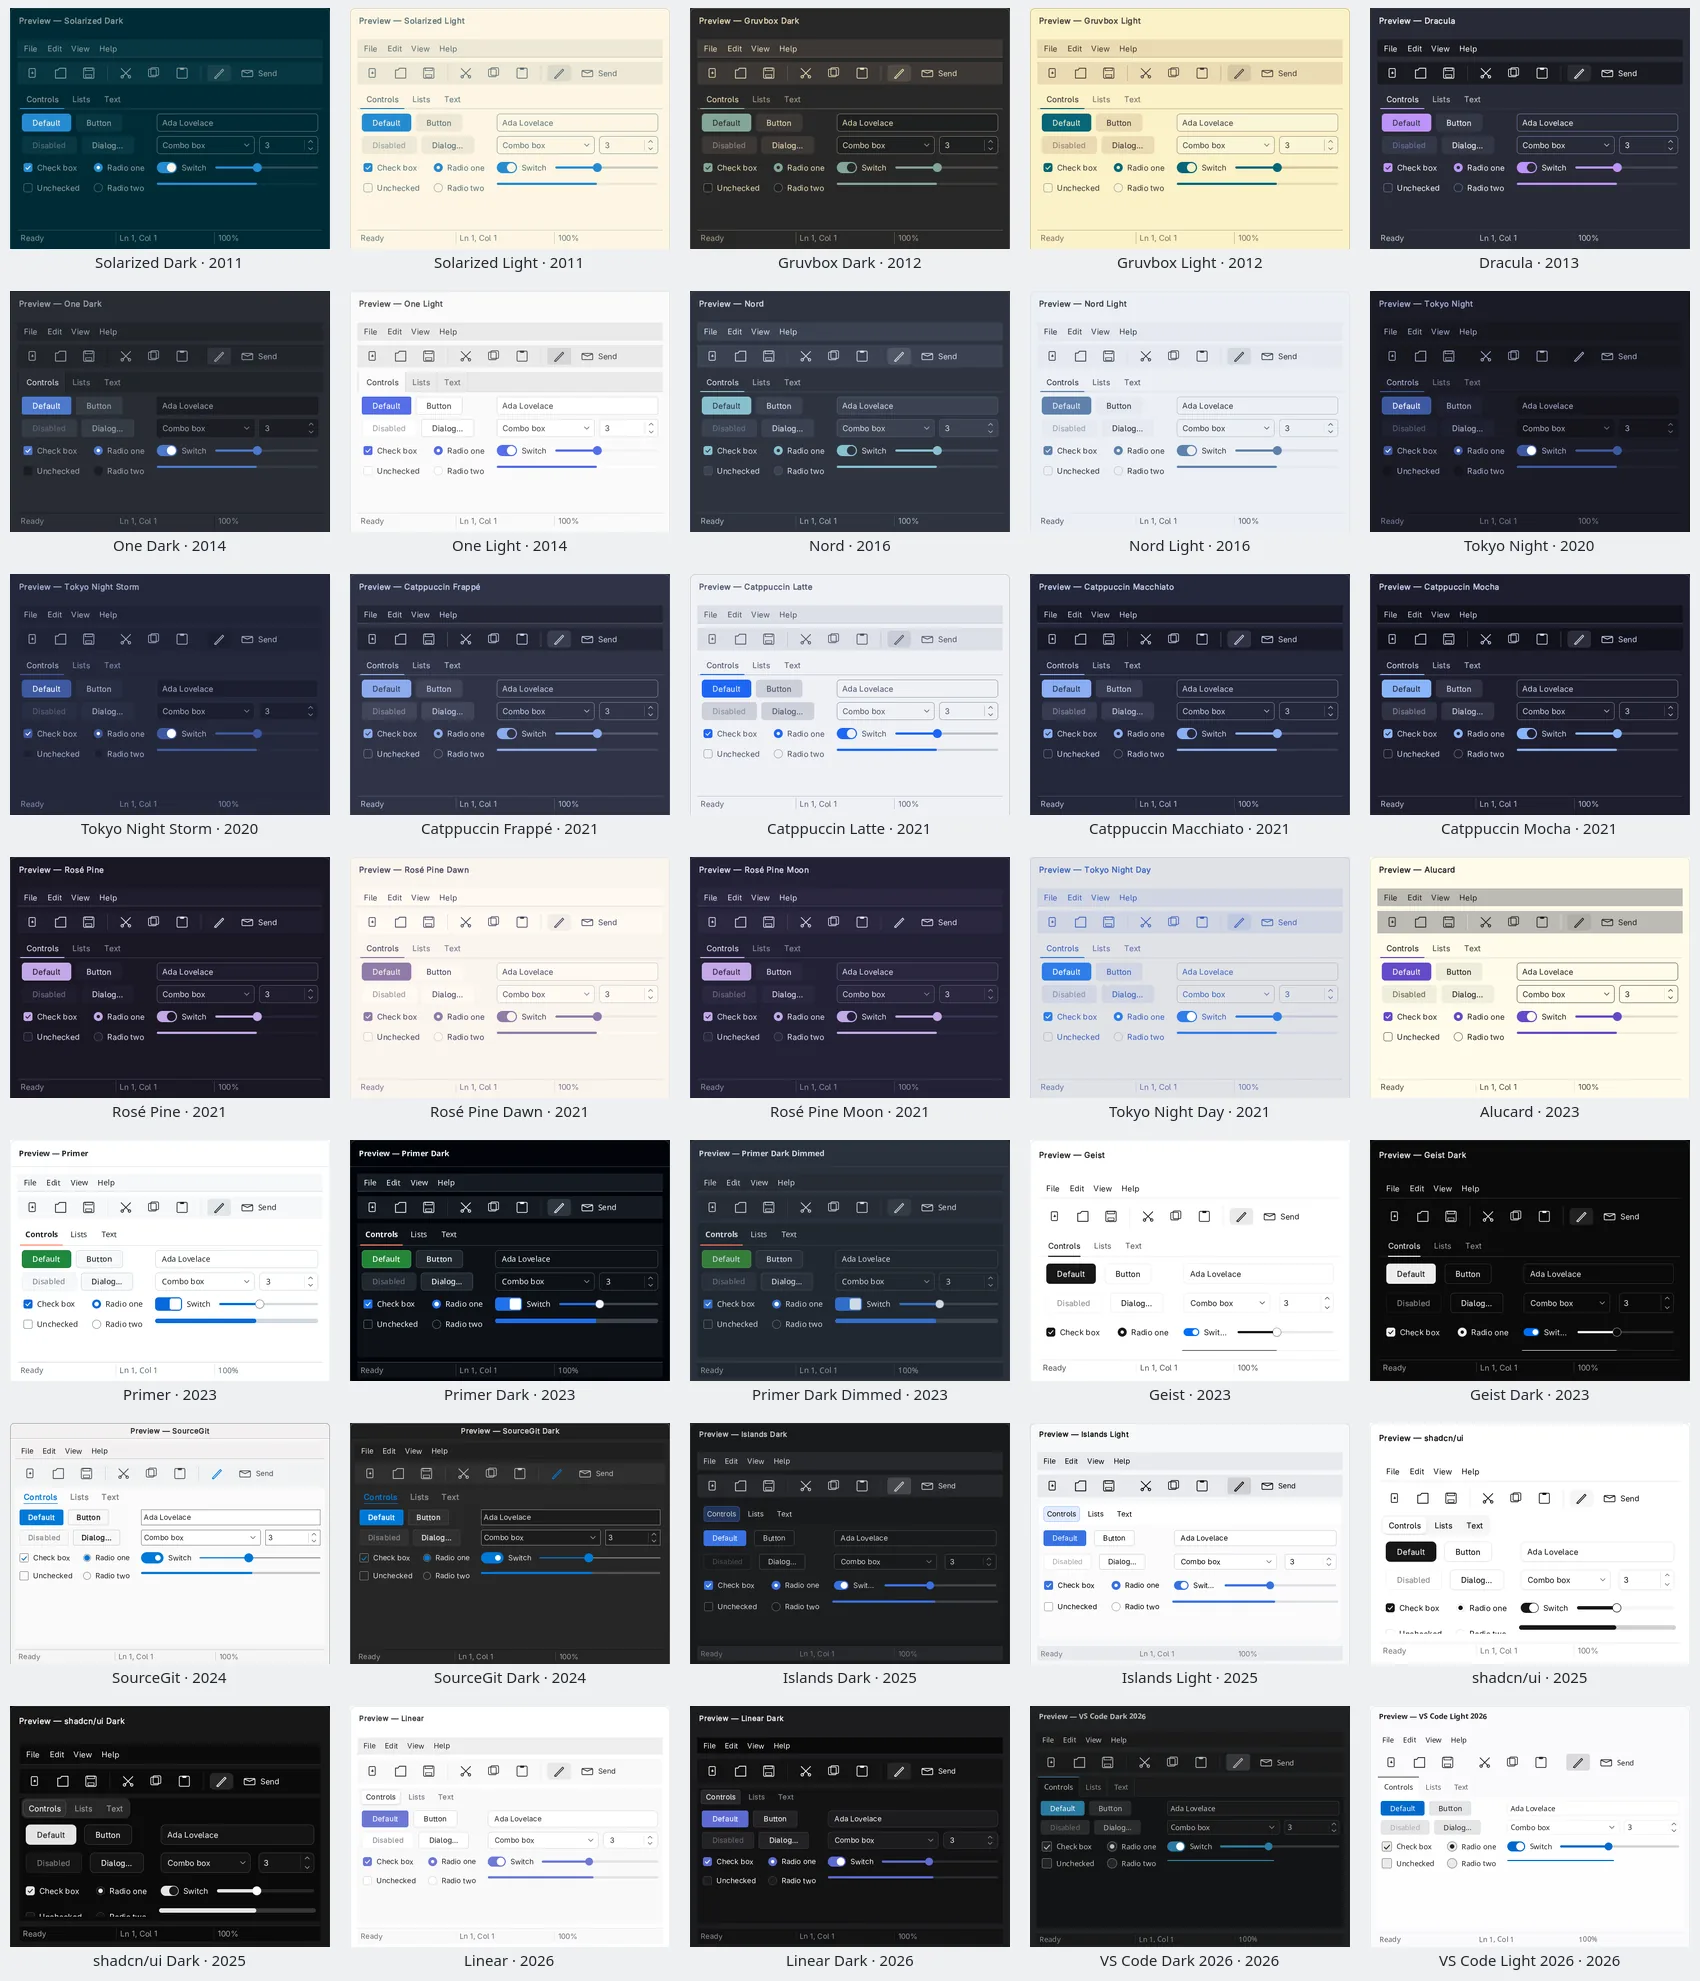
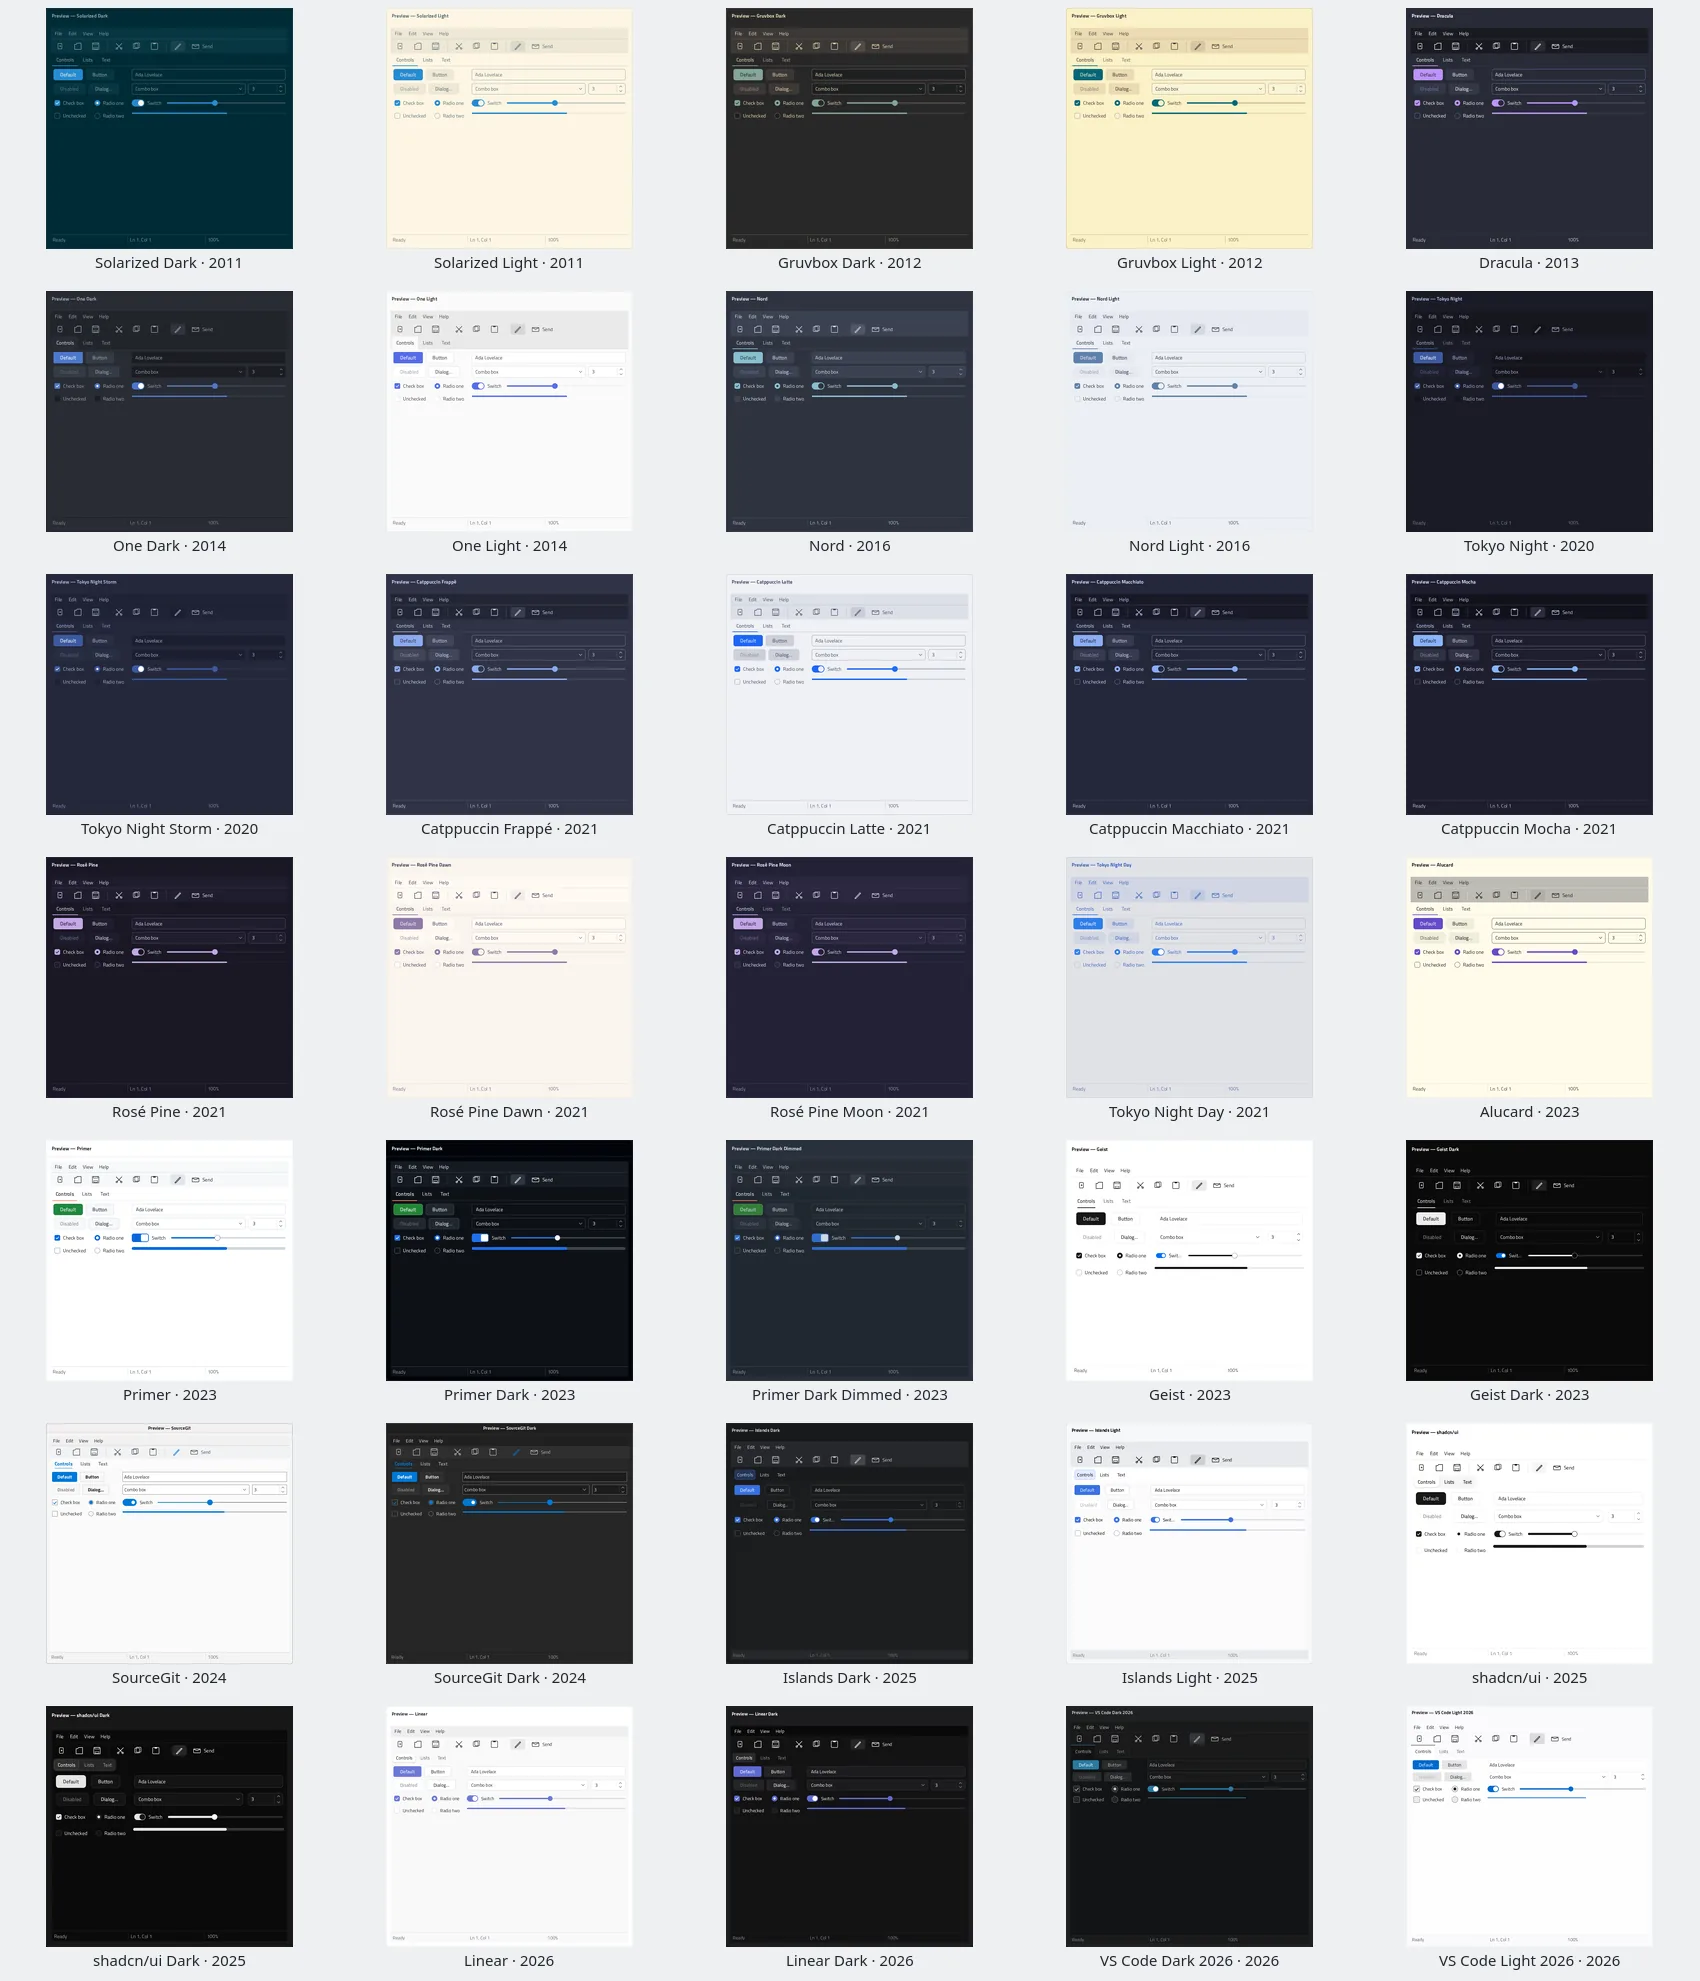
docs: regenerate every screenshot, and make the last hand-made one reproducible
The theme sheets and the window-frame sheet were rendered before the
suite pinned the bundled faces and before the Settings crop moved, so
they were a picture of one machine's installed fonts and 35 px short.
All of them are rebuilt: the seven decade and family sheets through
tools/atlas/render.sh and sheets.sh, and the frame sheet through a
script that did not exist until now.

That last one is the point. frames.webp was made by hand once. When
frame drawing changed, rebuilding it meant reading the twenty-eight
packs back out of the picture one label at a time, because nothing
recorded which they were or in what order. tools/atlas/frames.sh does
it now — it renders each pack's frame sheet, crops the active tile from
a position checked against Aqua's pinstripes, System 1's 1-bit frame
and Tahoe's rounded one, and montages them four to a row. Two and a
half seconds.

A screenshot in the documentation that no script can regenerate is one
that will be wrong and stay wrong, which is exactly what this was.

timeline.png is unchanged and correct: it plots packs by year and
platform, and no pack was added.

diff --git a/tools/atlas/README.md b/tools/atlas/README.md
@@ -25,3 +25,17 @@ the timeline, Chromium.
   or `WEB_LANES`; `build.py` names any lineage it could not place.
 - **Publishing** the page means uploading `out/index.html` with
   `out/previews/` and `out/gallery/` beside it.
+
+## frames.sh
+
+`tools/atlas/frames.sh` rebuilds the README's window-frame sheet
+(`docs/screenshots/themes/frames.webp`): one active frame per era,
+System 1 to macOS Tahoe, cropped out of each pack's `-frames` sheet and
+montaged four to a row.
+
+It exists because that image did not have a script. It was made by hand
+once, and when frame drawing changed — the Platinum title, the fonts
+the suite pins — the list of packs in it had to be reconstructed from
+the picture before it could be rebuilt. A screenshot in the
+documentation that no script can regenerate is one that will be wrong
+and stay wrong.
